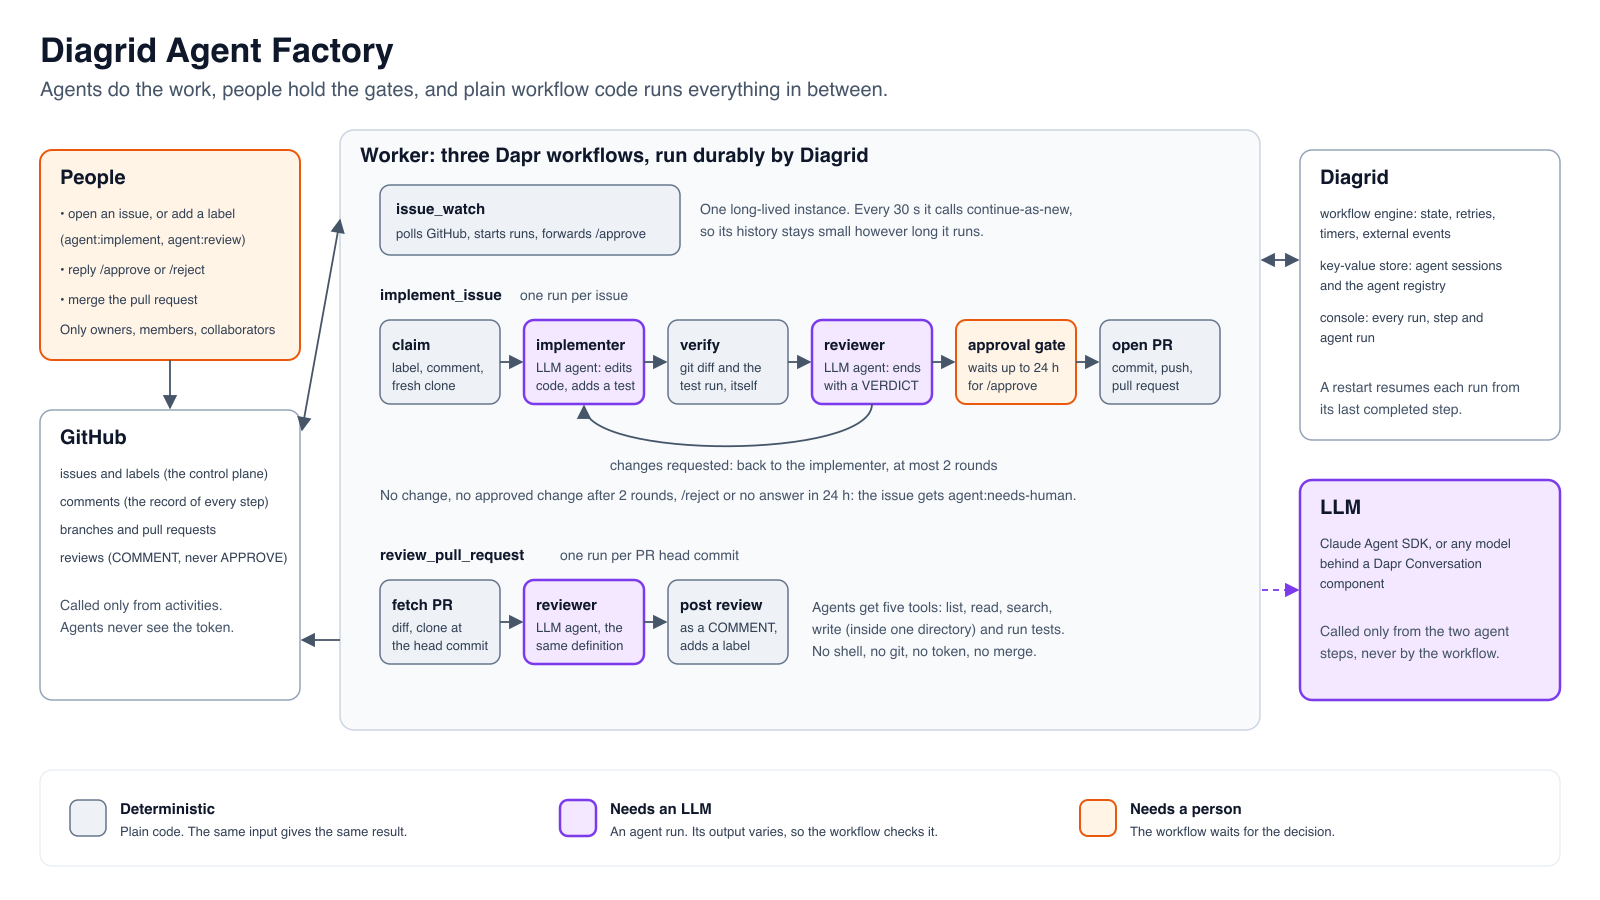
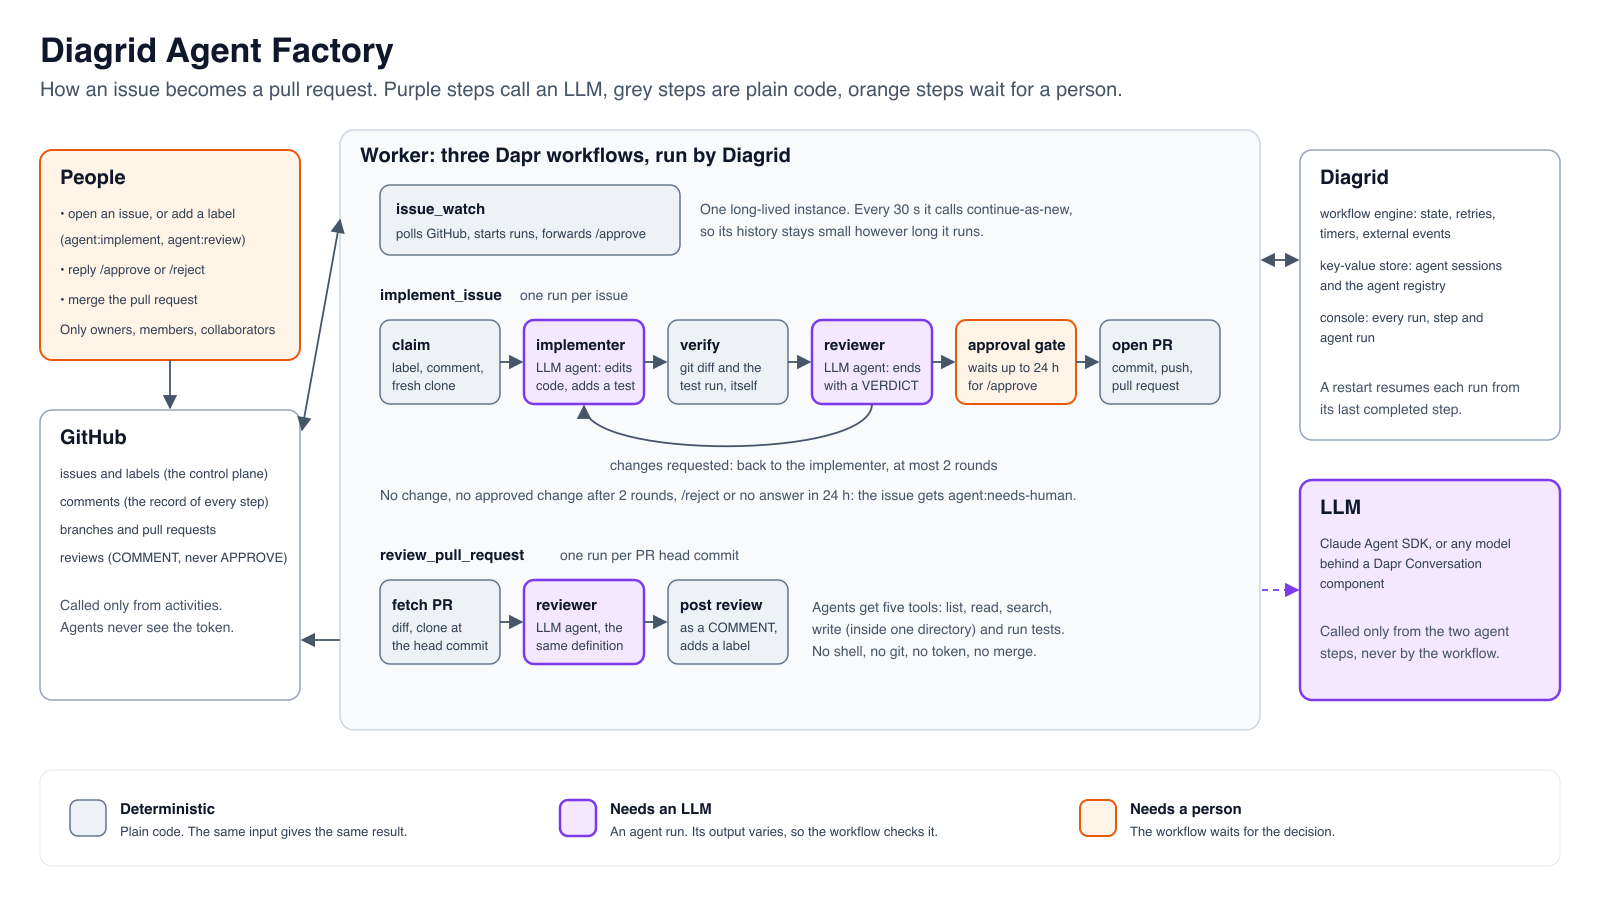
Plainer wording in the README and diagram

Changed region(s): [[0.0312, 0.0933, 0.6875, 0.1244], [0.4375, 0.1556, 0.5625, 0.1867]]

diff --git a/README.md b/README.md
@@ -1,14 +1,14 @@
 # Diagrid Agent Factory
 
-An automation framework for engineering work that agents do and a workflow
-governs: agents pick up issues, write the code, review each other's work and
-review pull requests, while people decide what gets worked on, what gets opened
-and what gets merged.
+Two LLM agents turn GitHub issues into pull requests and review pull requests.
+A workflow runs every step around them: it checks their changes, runs the tests,
+and waits for a person to reply `/approve` before it opens a pull request.
+People choose the issues and do the merging.
 
-It is built on [Dapr Workflows](https://docs.dapr.io/developing-applications/building-blocks/workflow/),
+It runs on [Dapr Workflows](https://docs.dapr.io/developing-applications/building-blocks/workflow/),
 [Dapr Agents](https://github.com/dapr/dapr-agents) and
-[Diagrid](https://www.diagrid.io/catalyst), and it is a small, readable
-version of how Diagrid runs coding agents on its own repositories.
+[Diagrid](https://www.diagrid.io/catalyst). Diagrid runs coding agents on its own
+repositories the same way; this is a smaller version of that setup.
 
 ## Who does what
 
@@ -21,9 +21,6 @@ version of how Diagrid runs coding agents on its own repositories.
 | Approve opening a pull request (`/approve`) | yes | | |
 | Hold the token, push, open the PR, set labels | | yes | |
 | Merge | yes | | |
-
-Agents do the work, people hold every gate, and the workflow enforces the rules
-in between.
 
 ## How work moves
 
@@ -59,7 +56,7 @@ workflow; every other step is a workflow activity in plain code.
 | **The workflow checks the agent's work.** After the implementer finishes, the workflow lists the changed files and runs the tests itself. | `verify_workspace` in [`factory/activities.py`](factory/activities.py) |
 | **A fresh reviewer.** A second agent with no shared context reviews the diff and ends with `VERDICT: APPROVE` or `REQUEST_CHANGES`. | [`agents/reviewer.md`](agents/reviewer.md) |
 | **Least privilege.** Agents get five tools: list, read, search, write (inside one directory only) and run tests. They never see the GitHub token and cannot run git, push, label or merge. With the Claude backend, Claude's own shell and edit tools are switched off. | [`factory/tools.py`](factory/tools.py) |
-| **People hold the gates.** Only `/approve` and `/reject` from owners, members and collaborators count, and `AUTO_PICKUP` only picks up issues they opened. The review bot comments; it never approves, so it does not count toward branch protection. | [`factory/github.py`](factory/github.py) |
+| **Only trusted people count.** Only `/approve` and `/reject` from owners, members and collaborators count, and `AUTO_PICKUP` only picks up issues they opened. The review bot comments; it never approves, so it does not count toward branch protection. | [`factory/github.py`](factory/github.py) |
 | **Agents are configuration.** Each agent's role, goal, tools, iteration limit and instructions live in one file. Add a file to add an agent. | [`agents/`](agents) |
 | **One run per work item.** An issue or a PR head commit is one workflow instance with a stable id, so the same item is never worked on twice. | `_start_once` in [`factory/activities.py`](factory/activities.py) |
 
@@ -72,7 +69,7 @@ more rounds.
 The same pattern covers more of the pull request lifecycle. Diagrid's own setup
 also has agents that fix failing CI, answer review comments and rebase
 conflicting pull requests. Each is one more workflow that reuses the activities
-here, plus one more file in `agents/`, under the same rules.
+here, plus one more file in `agents/`.
 
 To use GitLab instead of GitHub, replace [`factory/github.py`](factory/github.py).
 The workflows only call it through the activities, and need the same few calls
